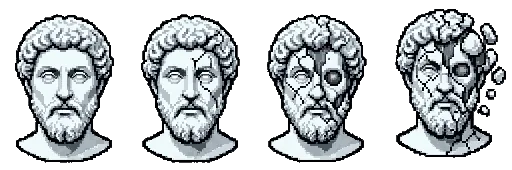
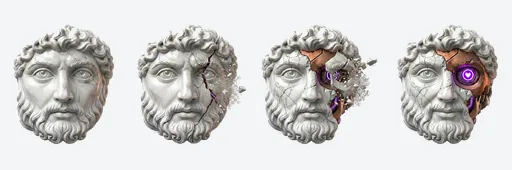
feat(agora): la cara nueva de Preceptor, recortada de verdad
FASE 0 · Las 14 imagenes, miradas una a una. Tres cosas que no se veian
en el nombre del fichero:

  * Los JPEG «de fondo claro» no lo tienen. Traen la transparencia DIBUJADA:
    un damero de dos grises (~26x21 px) horneado en pixeles. No hay alfa que
    rescatar; hay que deducirlo.
  * Filtrar por color no vale. El marmol del busto tambien es casi blanco:
    con tolerancia generosa el recorte se come frente y mejilla; con tolerancia
    apretada quedan medias paredes de damero. Se probaron las dos y se miraron.
  * Lo que si vale es la ESTRUCTURA. Un pixel de damero tiene el tono
    contrario a un periodo exacto, en los DOS ejes. El marmol no alterna asi.
    Con un solo eje el pelo desaparecia --entre rizo y rizo hay damero y el
    borde alterna en horizontal por casualidad--; con los dos, el pelo se queda.

FASE 1 · Iconos. icon-192, icon-512 sobre Tinta #1E1826 y icon-512-maskable
sobre Marmol #E4E8EC, escalado por EXTENSION RADIAL y no por la caja: el busto
es ovalado y medir sus esquinas vacias lo encogeria de mas dentro del circulo
de Android. Se retira `public/icon.svg`, que no lo referenciaba nada y era de
otra paleta (slate + ambar, cero solape con el canon).

La fuente de los iconos oscuros NO es la imagen que ya venia sobre fondo
oscuro, aunque parecia lo obvio: su fondo se conecta con las sombras de la
cara y el inundado se colaba hasta la cuenca del ojo -- se vio una mancha
negra alrededor del iris y se cambio de fuente.
[…]

diff --git a/public/fr/index.html b/public/fr/index.html
@@ -34,7 +34,7 @@
     </div>
     <div id="identity" class="fila identity"></div>
 </header>
-  <p class="proof">Code ouvert · <a href="https://github.com/piskyRpapalo/PreceptorOS">GitHub</a> · <b>540</b> tests au vert dans l'app · <b>38</b> sur ce site · <b>zéro</b> requête externe au chargement · <b>10 Ko</b> maxi par fichier</p>
+  <p class="proof">Code ouvert · <a href="https://github.com/piskyRpapalo/PreceptorOS">GitHub</a> · <b>540</b> tests au vert dans l'app · <b>40</b> sur ce site · <b>zéro</b> requête externe au chargement · <b>10 Ko</b> maxi par fichier</p>
   <p class="guia">Votre IA souveraine, sur votre machine, sans nuage. Ecrivez ci-dessous pour commencer.</p>
   <div id="chat" class="panel">
 <textarea id="pregunta" class="chat-input" placeholder="Ecrivez votre premiere question..." rows="4"></textarea>

diff --git a/public/es/index.html b/public/es/index.html
@@ -34,7 +34,7 @@
     </div>
     <div id="identity" class="fila identity"></div>
 </header>
-  <p class="proof">Código abierto · <a href="https://github.com/piskyRpapalo/PreceptorOS">GitHub</a> · <b>540</b> pruebas en verde en la app · <b>38</b> en esta web · <b>cero</b> peticiones externas al cargar · <b>10 KB</b> máximo por fichero</p>
+  <p class="proof">Código abierto · <a href="https://github.com/piskyRpapalo/PreceptorOS">GitHub</a> · <b>540</b> pruebas en verde en la app · <b>40</b> en esta web · <b>cero</b> peticiones externas al cargar · <b>10 KB</b> máximo por fichero</p>
   <p class="guia">Tu IA soberana, en tu máquina, sin nube. Escribe abajo para empezar.</p>
   <div id="chat" class="panel">
 <textarea id="pregunta" class="chat-input" placeholder="Escribe tu primera pregunta..." rows="4"></textarea>

diff --git a/public/en/index.html b/public/en/index.html
@@ -34,7 +34,7 @@
     </div>
     <div id="identity" class="fila identity"></div>
 </header>
-  <p class="proof">Open source · <a href="https://github.com/piskyRpapalo/PreceptorOS">GitHub</a> · <b>540</b> tests green in the app · <b>38</b> on this site · <b>zero</b> external requests on load · <b>10 KB</b> max per file</p>
+  <p class="proof">Open source · <a href="https://github.com/piskyRpapalo/PreceptorOS">GitHub</a> · <b>540</b> tests green in the app · <b>40</b> on this site · <b>zero</b> external requests on load · <b>10 KB</b> max per file</p>
   <p class="guia">Your sovereign AI, on your machine, no cloud. Write below to start.</p>
   <div id="chat" class="panel">
 <textarea id="pregunta" class="chat-input" placeholder="Write your first question..." rows="4"></textarea>

diff --git a/test_web.py b/test_web.py
@@ -694,6 +694,67 @@ class PWA(unittest.TestCase):
                         "o tiene margen de sobra como icono, o se recorta como "
                         "maskable. No puede ser lo correcto en los dos papeles.")
 
+    def test_los_iconos_no_engordan_sin_permiso(self):
+        """Los iconos pasaron de 12 KB a 180 KB al cambiar de arte.
+
+        Es el precio de una imagen fotorrealista y esta pagado a proposito:
+        el anterior era un glifo plano de otra paleta. Pero un techo declarado
+        evita que el proximo cambio meta un PNG de un mega sin que nadie lo
+        mire. No se cargan al abrir la web --solo al instalar la app-- y por
+        eso el techo es alto y no minusculo.
+        """
+        m = json.loads((PUBLICO / "manifest.webmanifest").read_text(encoding="utf-8"))
+        vistos, total = set(), 0
+        for icono in m["icons"]:
+            if icono["src"] in vistos:
+                continue
+            vistos.add(icono["src"])
+            total += (PUBLICO / icono["src"].lstrip("/")).stat().st_size
+        self.assertLess(total, 256 * 1024,
+                        f"los iconos del manifiesto suman {total} B")
+
+    def test_el_maskable_cabe_de_verdad_en_su_circulo(self):
+        """No que lo diga el manifiesto: que lo diga el fichero.
+
+        El anterior se declaraba maskable y se recortaba -- contenido a 255 px
+        del centro con un radio seguro de 205. Aquella comprobacion solo miraba
+        que fuese un fichero distinto del icono normal, que es necesario y no
+        suficiente: un fichero distinto puede estar igual de mal encuadrado.
+        Esta abre el PNG y mide.
+        """
+        try:
+            from PIL import Image
+        except ImportError:
+            self.skipTest("NO_DATA · sin Pillow no se puede medir el encuadre. "
+                          "Remedio: instalar Pillow y repetir")
+        import math
+        m = json.loads((PUBLICO / "manifest.webmanifest").read_text(encoding="utf-8"))
+        masc = [i for i in m["icons"] if "maskable" in i.get("purpose", "")]
+        if not masc:
+            self.skipTest("el manifiesto no declara ningun icono maskable")
+        for icono in masc:
+            im = Image.open(PUBLICO / icono["src"].lstrip("/")).convert("RGB")
+            w, h = im.size
+            with self.subTest(icono=icono["src"]):
+                self.assertEqual(w, h, "un maskable tiene que ser cuadrado")
+                fondo = im.getpixel((2, 2))
+                # Android recorta a un circulo del 80% del lado: radio 40%.
+                seguro = 0.40 * w
+                cx, cy = w / 2, h / 2
+                lejos = 0.0
+                px = im.load()
+                for y in range(h):
+                    for x in range(w):
+                        c = px[x, y]
+                        if abs(c[0]-fondo[0]) + abs(c[1]-fondo[1]) + abs(c[2]-fondo[2]) > 24:
+                            d = math.hypot(x - cx, y - cy)
+                            if d > lejos:
+                                lejos = d
+                self.assertLessEqual(
+                    lejos, seguro,
+                    f"{icono['src']}: hay dibujo a {lejos:.0f} px del centro y "
+                    f"el circulo seguro son {seguro:.0f}. Android lo recortaria.")
+
     def test_el_worker_no_guarda_lo_ajeno_ni_los_datos(self):
         """Las dos reglas que el worker anterior rompia.
 
